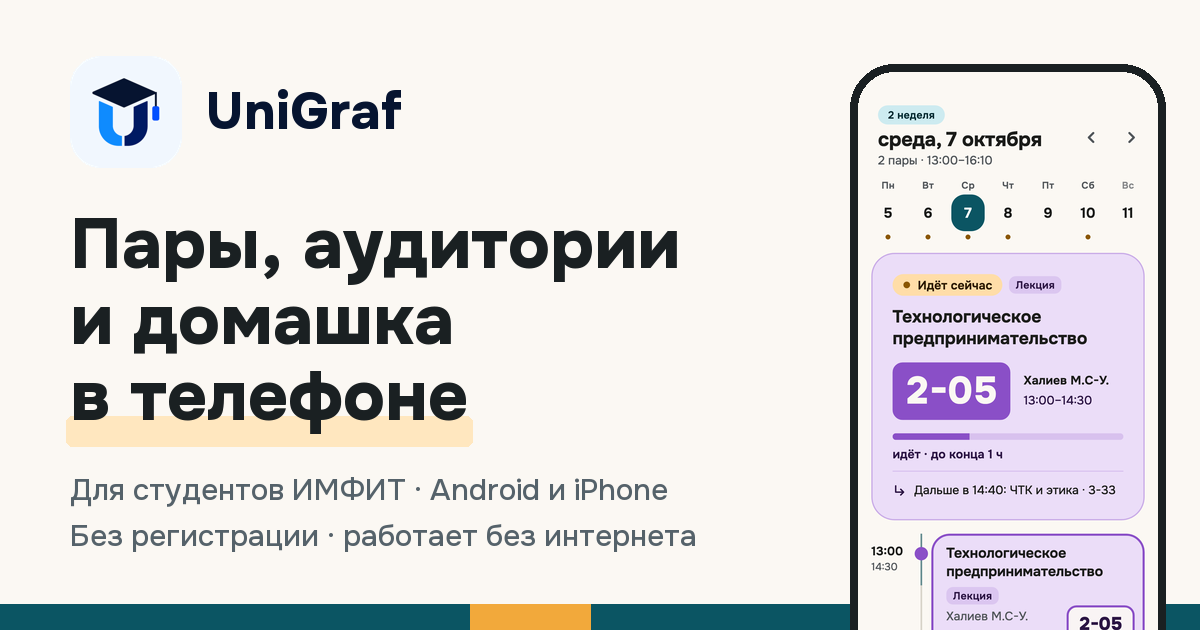
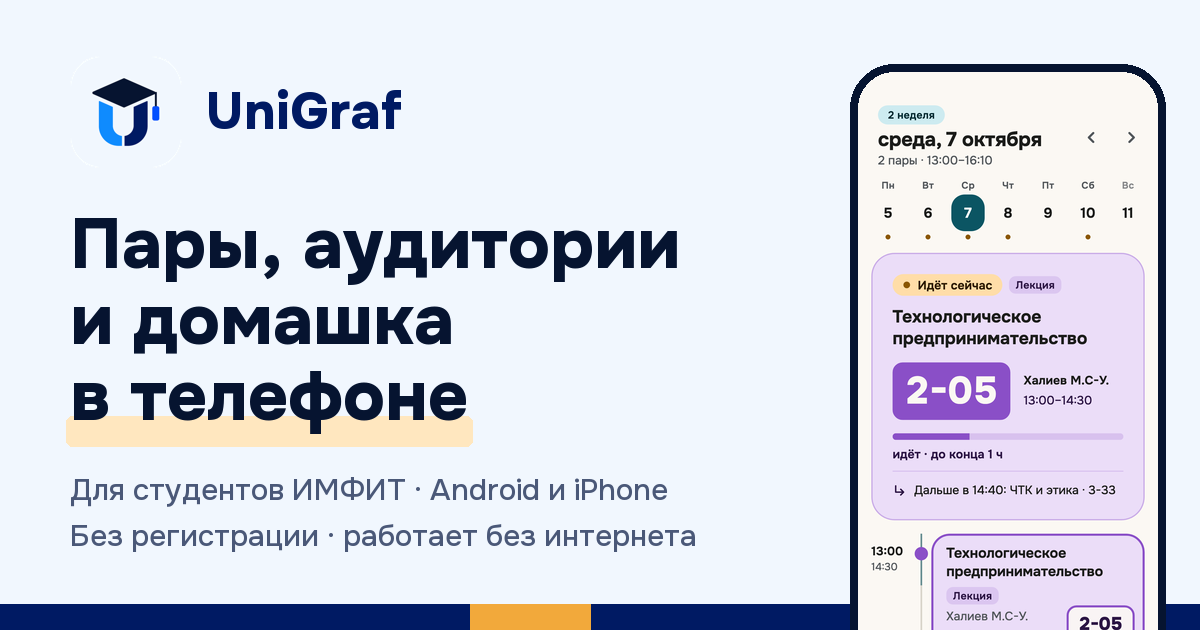
Тест: синяя палитра сайта под новый логотип (светлая и тёмная тема), QR, листовка, картинка для ссылок

diff --git a/data/web/index.html b/data/web/index.html
@@ -4,8 +4,8 @@
 <meta charset="utf-8">
 <meta name="viewport" content="width=device-width, initial-scale=1, viewport-fit=cover">
 <meta name="color-scheme" content="light dark">
-<meta name="theme-color" content="#FBF8F3" media="(prefers-color-scheme: light)">
-<meta name="theme-color" content="#0E1416" media="(prefers-color-scheme: dark)">
+<meta name="theme-color" content="#F1F7FE" media="(prefers-color-scheme: light)">
+<meta name="theme-color" content="#07122B" media="(prefers-color-scheme: dark)">
 <!-- Корень сайта: на основной странице пусто, на тестовой (/site-next/) публикация ставит «../», чтобы приложение, APK и расписание брались с основного сайта -->
 <meta name="site-root" content="">
 <title>UniGraf — приложение для студентов ИМФИТ</title>
@@ -30,47 +30,47 @@
 
   /* Цвета те же, что в приложении: бумага, петроль и янтарь звонка */
   :root {
-    --paper: #FBF8F3;
+    --paper: #F1F7FE;
     --surface: #FFFFFF;
-    --surface-2: #F3EEE6;
-    --ink: #1A2022;
-    --muted: #55626A;
-    --line: #E3DDD2;
-    --petrol: #0B5563;
+    --surface-2: #E4EEFB;
+    --ink: #061430;
+    --muted: #4A5878;
+    --line: #D3E0F2;
+    --petrol: #001A63;         /* основной цвет нового логотипа (имя переменной осталось прежним) */
     --petrol-ink: #FFFFFF;
-    --petrol-soft: #CDEBF0;
-    --petrol-soft-ink: #00282F;
+    --petrol-soft: #D9E9FD;
+    --petrol-soft-ink: #00123F;
     --amber: #F2A93B;
     --amber-soft: #FFE7BF;
     --amber-ink: #2B1A00;
-    --band: #0B5563;          /* тёмная плашка «без интернета» */
-    --band-ink: #EAF7F9;
+    --band: #001A63;          /* тёмная плашка «без интернета» */
+    --band-ink: #E6F0FF;
     --err: #B3261E;
     /* Одна шкала скруглений на всей странице: крупные поверхности, кнопки и карточки, мелочь */
     --r-lg: 24px;
     --r-md: 16px;
     --r-sm: 12px;
     --ease: cubic-bezier(.16, 1, .3, 1);
-    --shadow: 0 1px 2px rgba(26, 32, 34, .06), 0 14px 34px rgba(11, 85, 99, .11);
-    --shadow-phone: 0 2px 4px rgba(26, 32, 34, .08), 0 40px 70px -28px rgba(11, 85, 99, .5);
+    --shadow: 0 1px 2px rgba(6, 20, 48, .06), 0 14px 34px rgba(0, 26, 99, .12);
+    --shadow-phone: 0 2px 4px rgba(6, 20, 48, .08), 0 40px 70px -28px rgba(0, 26, 99, .5);
   }
   @media (prefers-color-scheme: dark) {
     :root {
-      --paper: #0E1416;
-      --surface: #151D20;
-      --surface-2: #1D272B;
-      --ink: #E9EFF0;
-      --muted: #A6B3B8;
-      --line: #2A373C;
-      --petrol: #7FD0DC;
-      --petrol-ink: #00282F;
-      --petrol-soft: #123E47;
-      --petrol-soft-ink: #CDEBF0;
+      --paper: #07122B;
+      --surface: #0C1B3F;
+      --surface-2: #12244F;
+      --ink: #E8EFFC;
+      --muted: #A9B8D6;
+      --line: #213668;
+      --petrol: #7DB8FF;
+      --petrol-ink: #00123F;
+      --petrol-soft: #132C66;
+      --petrol-soft-ink: #D6E6FF;
       --amber: #F5C26B;
       --amber-soft: #4A3410;
       --amber-ink: #FFE7BF;
-      --band: #123E47;
-      --band-ink: #CDEBF0;
+      --band: #132C66;
+      --band-ink: #D6E6FF;
       --err: #FFB4AB;
       --shadow: 0 1px 2px rgba(0, 0, 0, .4), 0 14px 34px rgba(0, 0, 0, .35);
       --shadow-phone: 0 2px 4px rgba(0, 0, 0, .5), 0 40px 70px -28px rgba(0, 0, 0, .8);
@@ -120,7 +120,7 @@
   .btn.primary { background: var(--petrol); color: var(--petrol-ink); box-shadow: var(--shadow); }
   .btn.ghost { background: transparent; color: var(--petrol); border-color: var(--petrol); }
   .btn.soft { background: var(--surface-2); color: var(--ink); border-color: var(--line); }
-  @media (hover: hover) { .btn:hover { transform: translateY(-2px); } .btn.primary:hover { box-shadow: 0 2px 4px rgba(26, 32, 34, .08), 0 18px 36px rgba(11, 85, 99, .24); } }
+  @media (hover: hover) { .btn:hover { transform: translateY(-2px); } .btn.primary:hover { box-shadow: 0 2px 4px rgba(6, 20, 48, .08), 0 18px 36px rgba(11, 85, 99, .24); } }
   .btn:active { transform: scale(.97); transition-duration: .1s; }
 
   /* ---------- Главный экран ---------- */
@@ -172,7 +172,7 @@
   .shot .phone img { display: block; width: 100%; height: auto; aspect-ratio: 600 / 1300; border-radius: 27px; background: var(--surface-2); }
   .shot figcaption { margin-top: 14px; font-size: .95rem; color: var(--muted); text-wrap: pretty; }
   .shot figcaption b { display: block; color: var(--ink); font-size: 1.02rem; }
-  @media (hover: hover) { .shot:hover .phone { transform: translateY(-8px); box-shadow: 0 2px 4px rgba(26, 32, 34, .08), 0 50px 80px -30px rgba(11, 85, 99, .55); } }
+  @media (hover: hover) { .shot:hover .phone { transform: translateY(-8px); box-shadow: 0 2px 4px rgba(6, 20, 48, .08), 0 50px 80px -30px rgba(11, 85, 99, .55); } }
 
   /* Староста меняет аудиторию: живая демонстрация */
   .split { display: grid; gap: 32px; align-items: center; }
@@ -328,7 +328,7 @@
   /* Нижняя кнопка на телефоне: появляется, когда главная кнопка уехала с экрана */
   .dock { position: fixed; z-index: 25; left: 16px; right: 16px; bottom: max(14px, env(safe-area-inset-bottom)); transform: translateY(160%); transition: transform .5s var(--ease); }
   .dock.show { transform: none; }
-  .dock .btn { width: 100%; min-height: 54px; box-shadow: 0 2px 6px rgba(0, 0, 0, .18), 0 16px 34px rgba(11, 85, 99, .35); }
+  .dock .btn { width: 100%; min-height: 54px; box-shadow: 0 2px 6px rgba(0, 0, 0, .18), 0 16px 34px rgba(0, 26, 99, .35); }
 
   /* ---------- Движение ---------- */
   @keyframes rise { from { opacity: 0; transform: translateY(18px); } to { opacity: 1; transform: none; } }

diff --git a/data/web/poster.html b/data/web/poster.html
@@ -7,14 +7,14 @@
 <title>Листовка — UniGraf для студентов ИМФИТ</title>
 <style>
   @font-face { font-family: "Onest"; src: url("fonts/onest.woff2") format("woff2"); font-weight: 100 900; font-display: swap; }
-  :root { --petrol: #0B5563; --ink: #1A2022; --muted: #55626A; --amber: #F2A93B; --soft: #CDEBF0; }
+  :root { --petrol: #001A63; --ink: #061430; --muted: #4A5878; --amber: #F2A93B; --soft: #D9E9FD; }
   * { box-sizing: border-box; }
   body { margin: 0; background: #e9e6df; font: 400 18px/1.5 "Onest", system-ui, sans-serif; color: var(--ink); }
   .bar { max-width: 210mm; margin: 16px auto 0; padding: 0 12px; display: flex; gap: 10px; align-items: center; justify-content: space-between; flex-wrap: wrap; }
   .bar a { color: var(--petrol); }
   .bar button { font: inherit; font-weight: 700; background: var(--petrol); color: #fff; border: 0; border-radius: 12px; padding: 12px 20px; cursor: pointer; }
   /* Лист A4: на экране показан в уменьшенном виде, при печати занимает всю страницу */
-  .sheet { width: 210mm; min-height: 297mm; margin: 16px auto; background: #FBF8F3; padding: 18mm 16mm; display: flex; flex-direction: column; align-items: center; text-align: center; box-shadow: 0 8px 30px rgba(0,0,0,.18); }
+  .sheet { width: 210mm; min-height: 297mm; margin: 16px auto; background: #F1F7FE; padding: 18mm 16mm; display: flex; flex-direction: column; align-items: center; text-align: center; box-shadow: 0 8px 30px rgba(0,0,0,.18); }
   .logo { display: flex; align-items: center; gap: 12px; font-weight: 800; font-size: 26px; color: var(--petrol); }
   .logo img { width: 56px; height: 56px; border-radius: 16px; }
   h1 { font-size: 46px; line-height: 1.05; letter-spacing: -.03em; font-weight: 800; margin: 14mm 0 6mm; }
@@ -29,7 +29,7 @@
   .foot { margin-top: auto; padding-top: 10mm; font-size: 14px; color: var(--muted); }
   @page { size: A4; margin: 0; }
   @media print {
-    body { background: #FBF8F3; }
+    body { background: #F1F7FE; }
     .bar { display: none; }
     .sheet { margin: 0; box-shadow: none; width: 100%; min-height: 100vh; }
   }

diff --git a/data/tools/make_landing_assets.py b/data/tools/make_landing_assets.py
@@ -21,7 +21,7 @@ SHOTS = Path("/tmp/claude-shots/landing")
 SITE_URL = "https://magan-z.github.io/unigraf/"
 FONT = ROOT / "app" / "assets" / "fonts" / "Onest.ttf"
 
-PAPER, PETROL, INK, MUTED, AMBER = (251, 248, 243), (11, 85, 99), (26, 32, 34), (85, 98, 106), (242, 169, 59)
+PAPER, PETROL, INK, MUTED, AMBER = (241, 247, 254), (0, 26, 99), (6, 20, 48), (74, 88, 120), (242, 169, 59)
 
 
 def screenshots() -> None:
@@ -53,7 +53,7 @@ def preview_image() -> None:
     mask = Image.new("L", (112, 112), 0)
     ImageDraw.Draw(mask).rounded_rectangle((0, 0, 111, 111), radius=30, fill=255)
     im.paste(icon, (70, 56), mask)
-    d.text((206, 78), "UniGraf", font=font(52, 800), fill=(6, 20, 48))
+    d.text((206, 78), "UniGraf", font=font(52, 800), fill=PETROL)
     big = font(70, 800)
     d.text((70, 200), "Пары, аудитории", font=big, fill=INK)
     d.text((70, 276), "и домашка", font=big, fill=INK)
